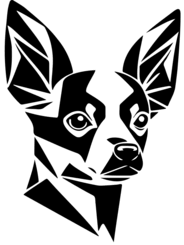
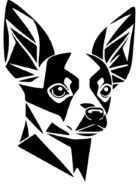
replace dog emoji for image

diff --git a/index.php b/index.php
@@ -1,4 +1,5 @@
 <?php
+
 /**
  * index.php — Homepage
  * wipeyourpaws.net · PHP 8.5 · Bootstrap 5.3.8
@@ -41,7 +42,7 @@ require_once 'includes/header.php';
       </div>
 
       <div class="col-lg-5 text-center d-none d-lg-block">
-        <div class="hero-brand-emoji" aria-hidden="true">🐕</div>
+        <img src="images/chandra-graphic.png" alt="chandra graphic logo" width="184" height="245">
         <div class="hero-card hero-location-badge">Chandra &amp; Skipper say hello!</div>
       </div>
 
